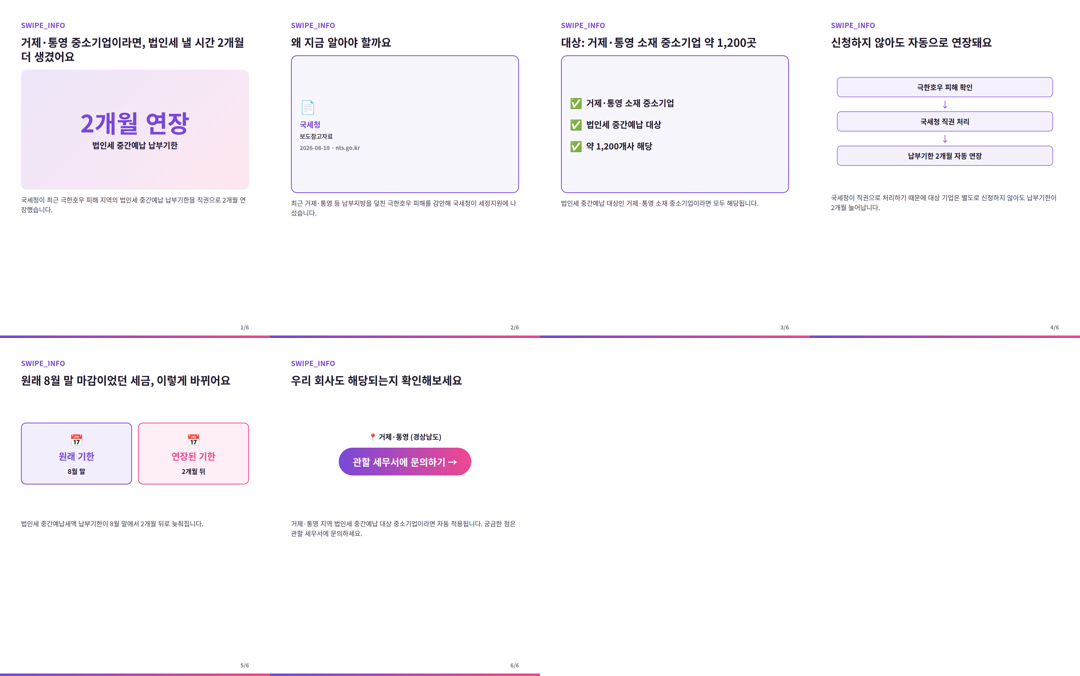
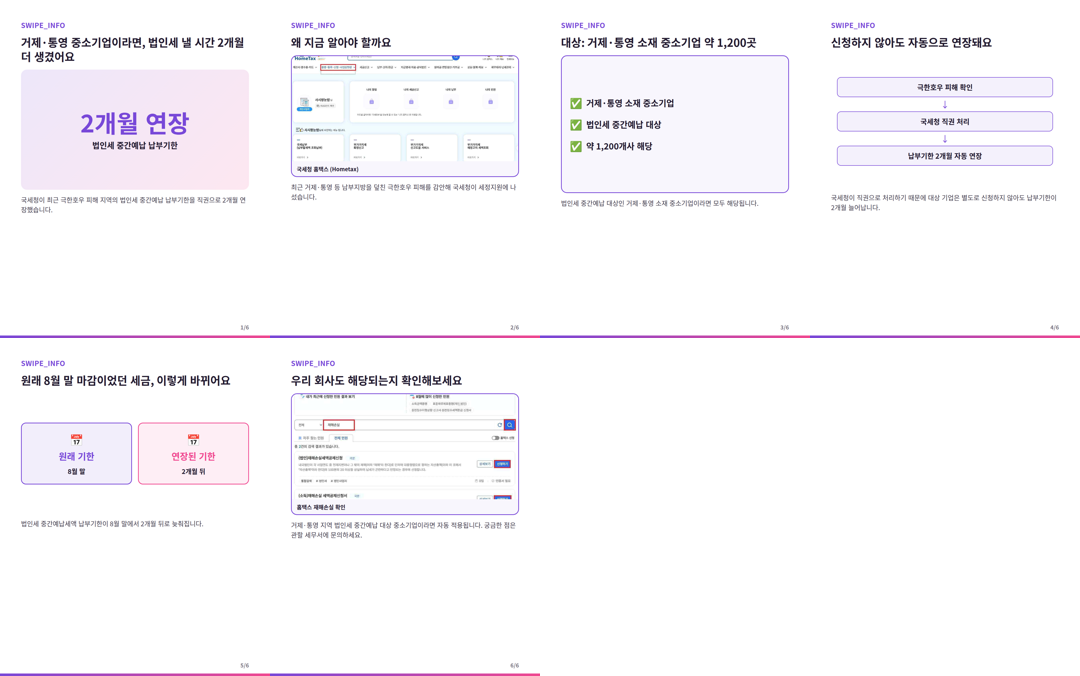
Regenerate SWIPE_INFO review page with real downloaded images (no Kakao send)

diff --git a/docs/v2/reports/swipe-info/2026-08-22/index.html b/docs/v2/reports/swipe-info/2026-08-22/index.html
@@ -31,8 +31,14 @@
   <section><h2>토픽</h2><p>거제 등 남부지방 호우 피해 지역 중소기업에 대한 신속한 세정지원 실시</p><p class="muted">검증 시각: 2026-08-22</p></section>
   <section><h2>컨택트 시트</h2><img class="contact-sheet" src="assets/contact_sheet.png" alt="contact sheet"></section>
   <section><h2>페이지 (6장)</h2><div class="page-grid"><div class="page-card"><img src="assets/page_01.png" loading="lazy" alt="page 1"><a class="dl" href="assets/page_01.png" download>page_01.png 다운로드</a></div><div class="page-card"><img src="assets/page_02.png" loading="lazy" alt="page 2"><a class="dl" href="assets/page_02.png" download>page_02.png 다운로드</a></div><div class="page-card"><img src="assets/page_03.png" loading="lazy" alt="page 3"><a class="dl" href="assets/page_03.png" download>page_03.png 다운로드</a></div><div class="page-card"><img src="assets/page_04.png" loading="lazy" alt="page 4"><a class="dl" href="assets/page_04.png" download>page_04.png 다운로드</a></div><div class="page-card"><img src="assets/page_05.png" loading="lazy" alt="page 5"><a class="dl" href="assets/page_05.png" download>page_05.png 다운로드</a></div><div class="page-card"><img src="assets/page_06.png" loading="lazy" alt="page 6"><a class="dl" href="assets/page_06.png" download>page_06.png 다운로드</a></div></div></section>
-  <section><h2>Instagram 캡션</h2><textarea readonly onclick="this.select()"></textarea></section>
-  <section><h2>Threads</h2><textarea readonly onclick="this.select()"></textarea></section>
+  <section><h2>Instagram 캡션</h2><textarea readonly onclick="this.select()">거제·통영 중소기업이라면 주목하세요.
+국세청이 최근 극한호우 피해를 감안해 법인세 중간예납 납부기한을 직권으로 2개월 연장했습니다.
+
+원래 8월 말이던 납부기한이 별도 신청 없이 자동으로 늦춰져요. 거제·통영 소재 중간예납 대상 중소기업 약 1,200곳이 해당됩니다.
+
+궁금하다면 관할 세무서에 문의해보세요.
+#SWIPE_INFO #법인세 #중소기업지원 #세정지원 #호우피해지원</textarea></section>
+  <section><h2>Threads</h2><textarea readonly onclick="this.select()">거제·통영 지역 중소기업 법인세 중간예납, 8월 말 마감이 국세청 직권으로 2개월 미뤄졌어요. 호우 피해를 감안한 조치라 별도 신청도 필요 없습니다. 대상 기업이면 자동 적용되니 확인해보세요.</textarea></section>
   <section><h2>QA</h2><p>content: <b>PASS</b> · render: <b>PASS</b></p></section>
   <section><h2>공식 출처</h2><ul><li><a href="https://www.nts.go.kr/nts/na/ntt/selectNttInfo.do?nttSn=1354268&amp;mi=2201&amp;bbsId=1028" target="_blank" rel="noopener">국세청</a> <span class="muted">(2026-08-18)</span></li></ul></section>
 </main>

diff --git a/docs/v2/reports/swipe-info/latest/index.html b/docs/v2/reports/swipe-info/latest/index.html
@@ -31,8 +31,14 @@
   <section><h2>토픽</h2><p>거제 등 남부지방 호우 피해 지역 중소기업에 대한 신속한 세정지원 실시</p><p class="muted">검증 시각: 2026-08-22</p></section>
   <section><h2>컨택트 시트</h2><img class="contact-sheet" src="assets/contact_sheet.png" alt="contact sheet"></section>
   <section><h2>페이지 (6장)</h2><div class="page-grid"><div class="page-card"><img src="assets/page_01.png" loading="lazy" alt="page 1"><a class="dl" href="assets/page_01.png" download>page_01.png 다운로드</a></div><div class="page-card"><img src="assets/page_02.png" loading="lazy" alt="page 2"><a class="dl" href="assets/page_02.png" download>page_02.png 다운로드</a></div><div class="page-card"><img src="assets/page_03.png" loading="lazy" alt="page 3"><a class="dl" href="assets/page_03.png" download>page_03.png 다운로드</a></div><div class="page-card"><img src="assets/page_04.png" loading="lazy" alt="page 4"><a class="dl" href="assets/page_04.png" download>page_04.png 다운로드</a></div><div class="page-card"><img src="assets/page_05.png" loading="lazy" alt="page 5"><a class="dl" href="assets/page_05.png" download>page_05.png 다운로드</a></div><div class="page-card"><img src="assets/page_06.png" loading="lazy" alt="page 6"><a class="dl" href="assets/page_06.png" download>page_06.png 다운로드</a></div></div></section>
-  <section><h2>Instagram 캡션</h2><textarea readonly onclick="this.select()"></textarea></section>
-  <section><h2>Threads</h2><textarea readonly onclick="this.select()"></textarea></section>
+  <section><h2>Instagram 캡션</h2><textarea readonly onclick="this.select()">거제·통영 중소기업이라면 주목하세요.
+국세청이 최근 극한호우 피해를 감안해 법인세 중간예납 납부기한을 직권으로 2개월 연장했습니다.
+
+원래 8월 말이던 납부기한이 별도 신청 없이 자동으로 늦춰져요. 거제·통영 소재 중간예납 대상 중소기업 약 1,200곳이 해당됩니다.
+
+궁금하다면 관할 세무서에 문의해보세요.
+#SWIPE_INFO #법인세 #중소기업지원 #세정지원 #호우피해지원</textarea></section>
+  <section><h2>Threads</h2><textarea readonly onclick="this.select()">거제·통영 지역 중소기업 법인세 중간예납, 8월 말 마감이 국세청 직권으로 2개월 미뤄졌어요. 호우 피해를 감안한 조치라 별도 신청도 필요 없습니다. 대상 기업이면 자동 적용되니 확인해보세요.</textarea></section>
   <section><h2>QA</h2><p>content: <b>PASS</b> · render: <b>PASS</b></p></section>
   <section><h2>공식 출처</h2><ul><li><a href="https://www.nts.go.kr/nts/na/ntt/selectNttInfo.do?nttSn=1354268&amp;mi=2201&amp;bbsId=1028" target="_blank" rel="noopener">국세청</a> <span class="muted">(2026-08-18)</span></li></ul></section>
 </main>
